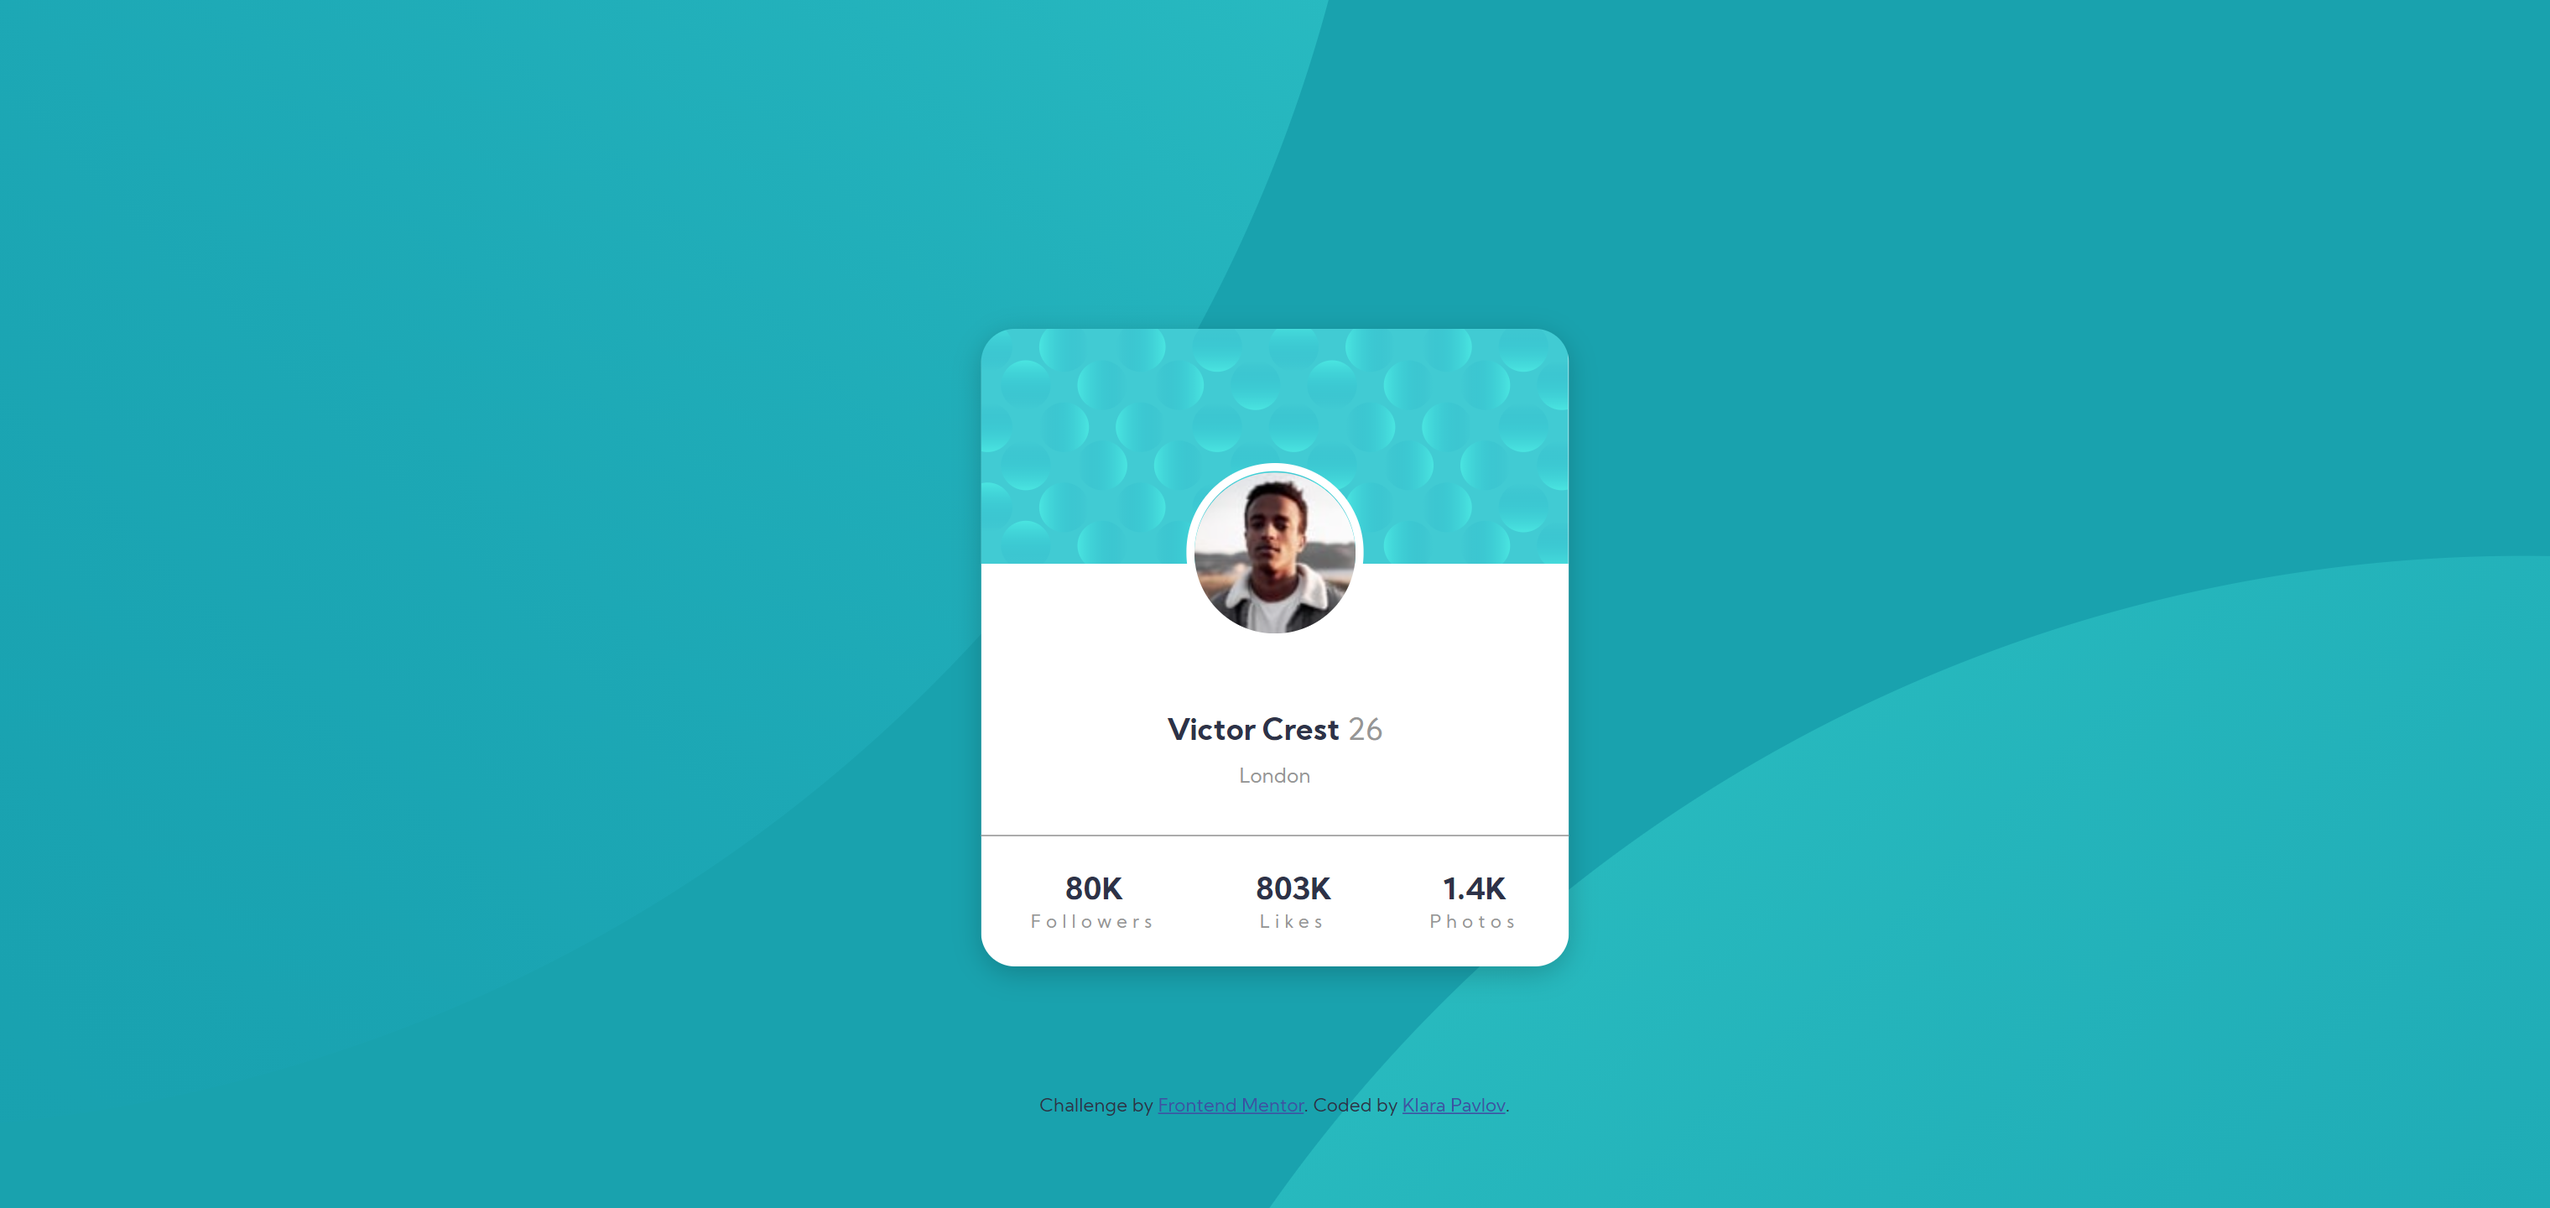
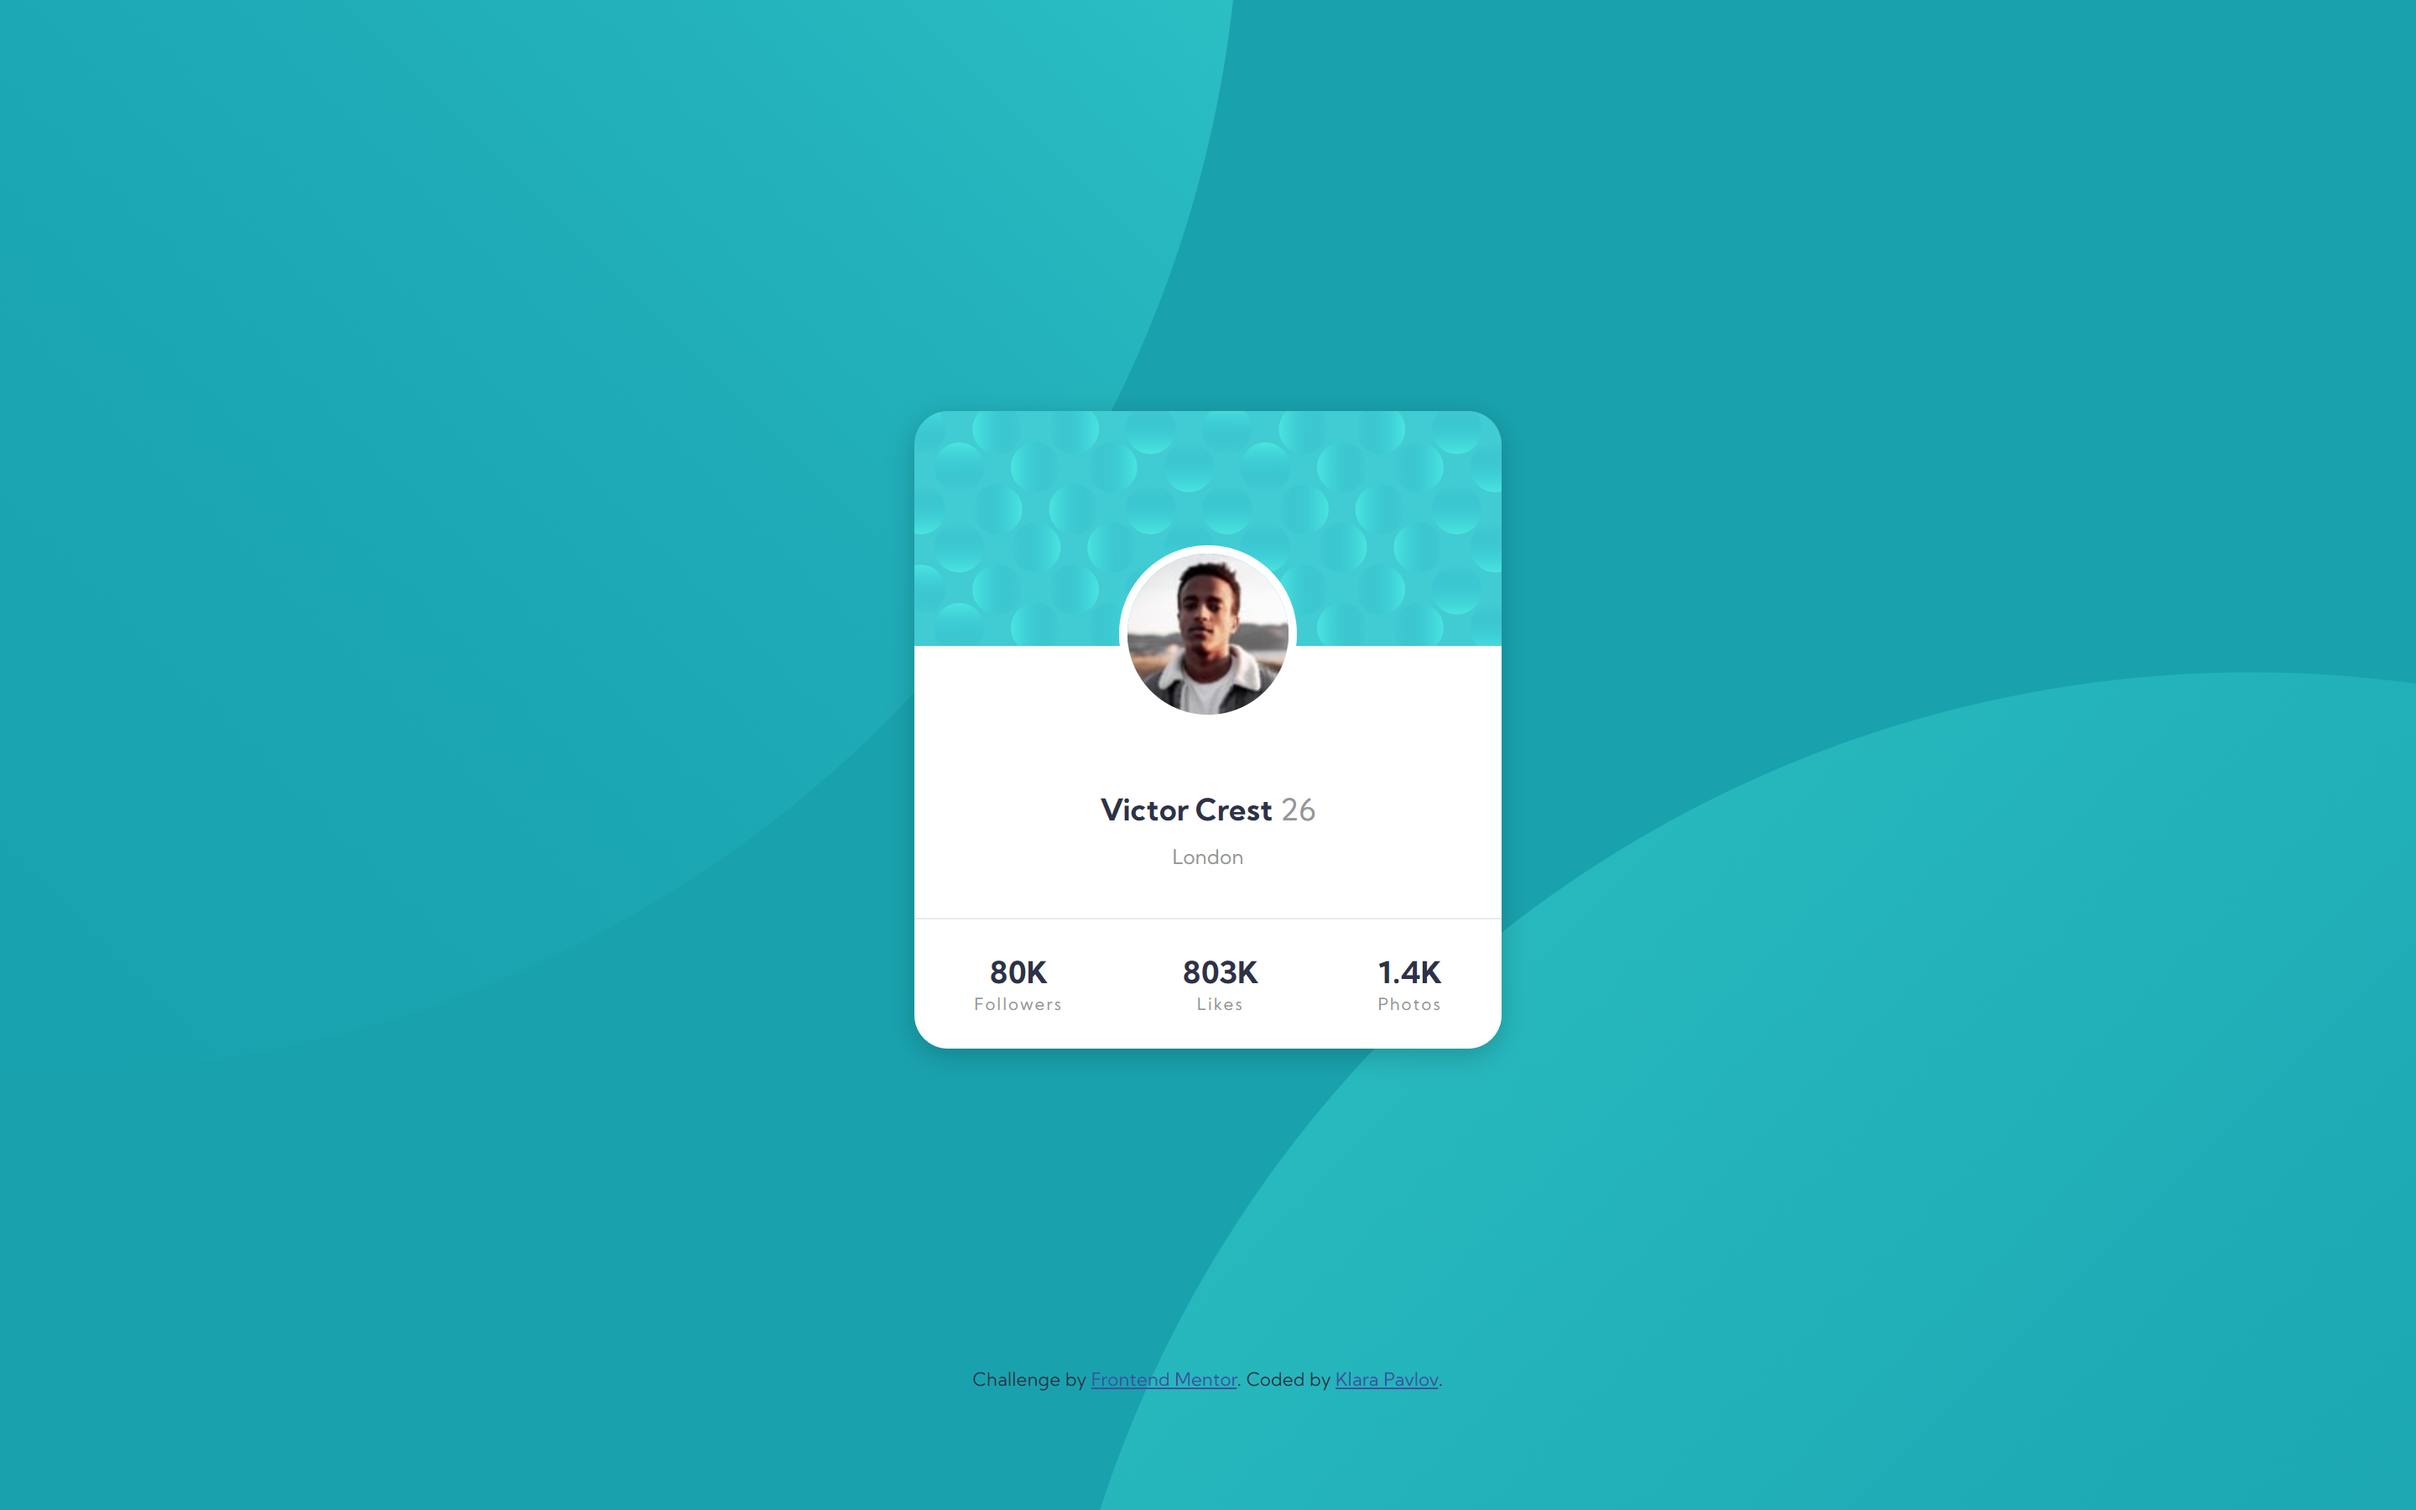
cleaning

Changed region(s): [[0.375, 0.2812, 0.625, 0.8438], [0.4062, 0.9062, 0.5938, 0.9375], [0.4375, 0.5938, 0.5312, 0.6562]]

diff --git a/style.css b/style.css
@@ -35,7 +35,6 @@
                 box-shadow: 0 4px 16px 0 rgba(0, 0, 0, 0.2);
                 background-image: url(images/bg-pattern-card.svg);
                 background-repeat: no-repeat;
-                background-size: right top;
                 background-size: 100%;
                 position: relative;
                 display: flex;
@@ -72,9 +71,14 @@
                 top: -40px;
             }
             
-            .card-component__text--statistics {
+            .card-component__text__statistics {
                 width: 350px;
-                border-top: 1px solid hsl(0, 0%, 59%);
+                border-top: 1px solid rgba(247, 247, 247, 1);
+                border-top: 1px solid rgba(150, 150, 150, 0.2);
+                -webkit-background-clip: padding-box;
+                /* for Safari */
+                background-clip: padding-box;
+                /* for IE9+, Firefox 4+, Opera, Chrome */
                 display: flex;
                 flex-direction: row;
                 justify-content: space-around;
@@ -83,17 +87,17 @@
                 top: -40px;
             }
             
-            .card-component__text--statistics div p {
-                font-size: 11px;
+            .card-component__text__statistics div p {
+                font-size: 10px;
                 font-weight: 400;
                 color: hsl(0, 0%, 59%);
                 text-align: center;
-                letter-spacing: 3px;
+                letter-spacing: 1px;
                 position: relative;
                 top: -20px;
             }
             
-            .card-component__text--headings {
+            .card-component__text__headings {
                 display: flex;
                 flex-direction: column;
                 justify-content: space-around;
@@ -139,6 +143,13 @@
                 }
             }
             
+            @media only screen and (max-width:1440px) {
+                .wrapper {
+                    background-position: -700px -800px, 620px 400px;
+                    background-size: 100%, 100%;
+                }
+            }
+            
             @media only screen and (max-width:1366px) {
                 .wrapper {
                     background-position: -1000px -950px, 420px 300px;
@@ -174,10 +185,10 @@
                     top: 30%;
                 }
                 .wrapper {
-                    background-position: -290px -80px, 180px 340px;
-                    background-size: 120%, 120%;
+                    background-position: -260px -200px, 200px 340px;
+                    background-size: 120%, 140%;
                 }
-                .card-component__text--statistics {
+                .card-component__text__statistics {
                     width: 300px;
                     top: -45px;
                 }
@@ -195,7 +206,7 @@
                     height: 300px;
                     top: 20%;
                 }
-                .card-component__text--statistics {
+                .card-component__text__statistics {
                     width: 250px;
                     top: -50px;
                 }

diff --git a/index.html b/index.html
@@ -20,12 +20,11 @@
             <div class="card-component">
                 <img src="images/image-victor.jpg" alt="image-victor" />
                 <div class="card-component__text">
-                    <div class="card-component__text--headings">
+                    <div class="card-component__text__headings">
                         <h4>Victor Crest <span style="font-weight:400; color:hsl(0, 0%, 59%);">26</span></h4>
                         <h6>London</h6>
                     </div>
-                    <div class="card-component__text--statistics">
-
+                    <div class="card-component__text__statistics">
                         <div>
                             <h4>80K</h4>
                             <p>Followers</p>
@@ -39,8 +38,6 @@
                             <h4>1.4K</h4>
                             <p>Photos</p>
                         </div>
-
-
                     </div>
                 </div>
             </div>

diff --git a/style-guide.md b/style-guide.md
@@ -18,6 +18,7 @@ Dark grayish blue: hsl(227, 10%, 46%)
 ### Neutral
 
 Dark gray: hsl(0, 0%, 59%)
+rgb(150,150,150);
 
 ## Typography
 
